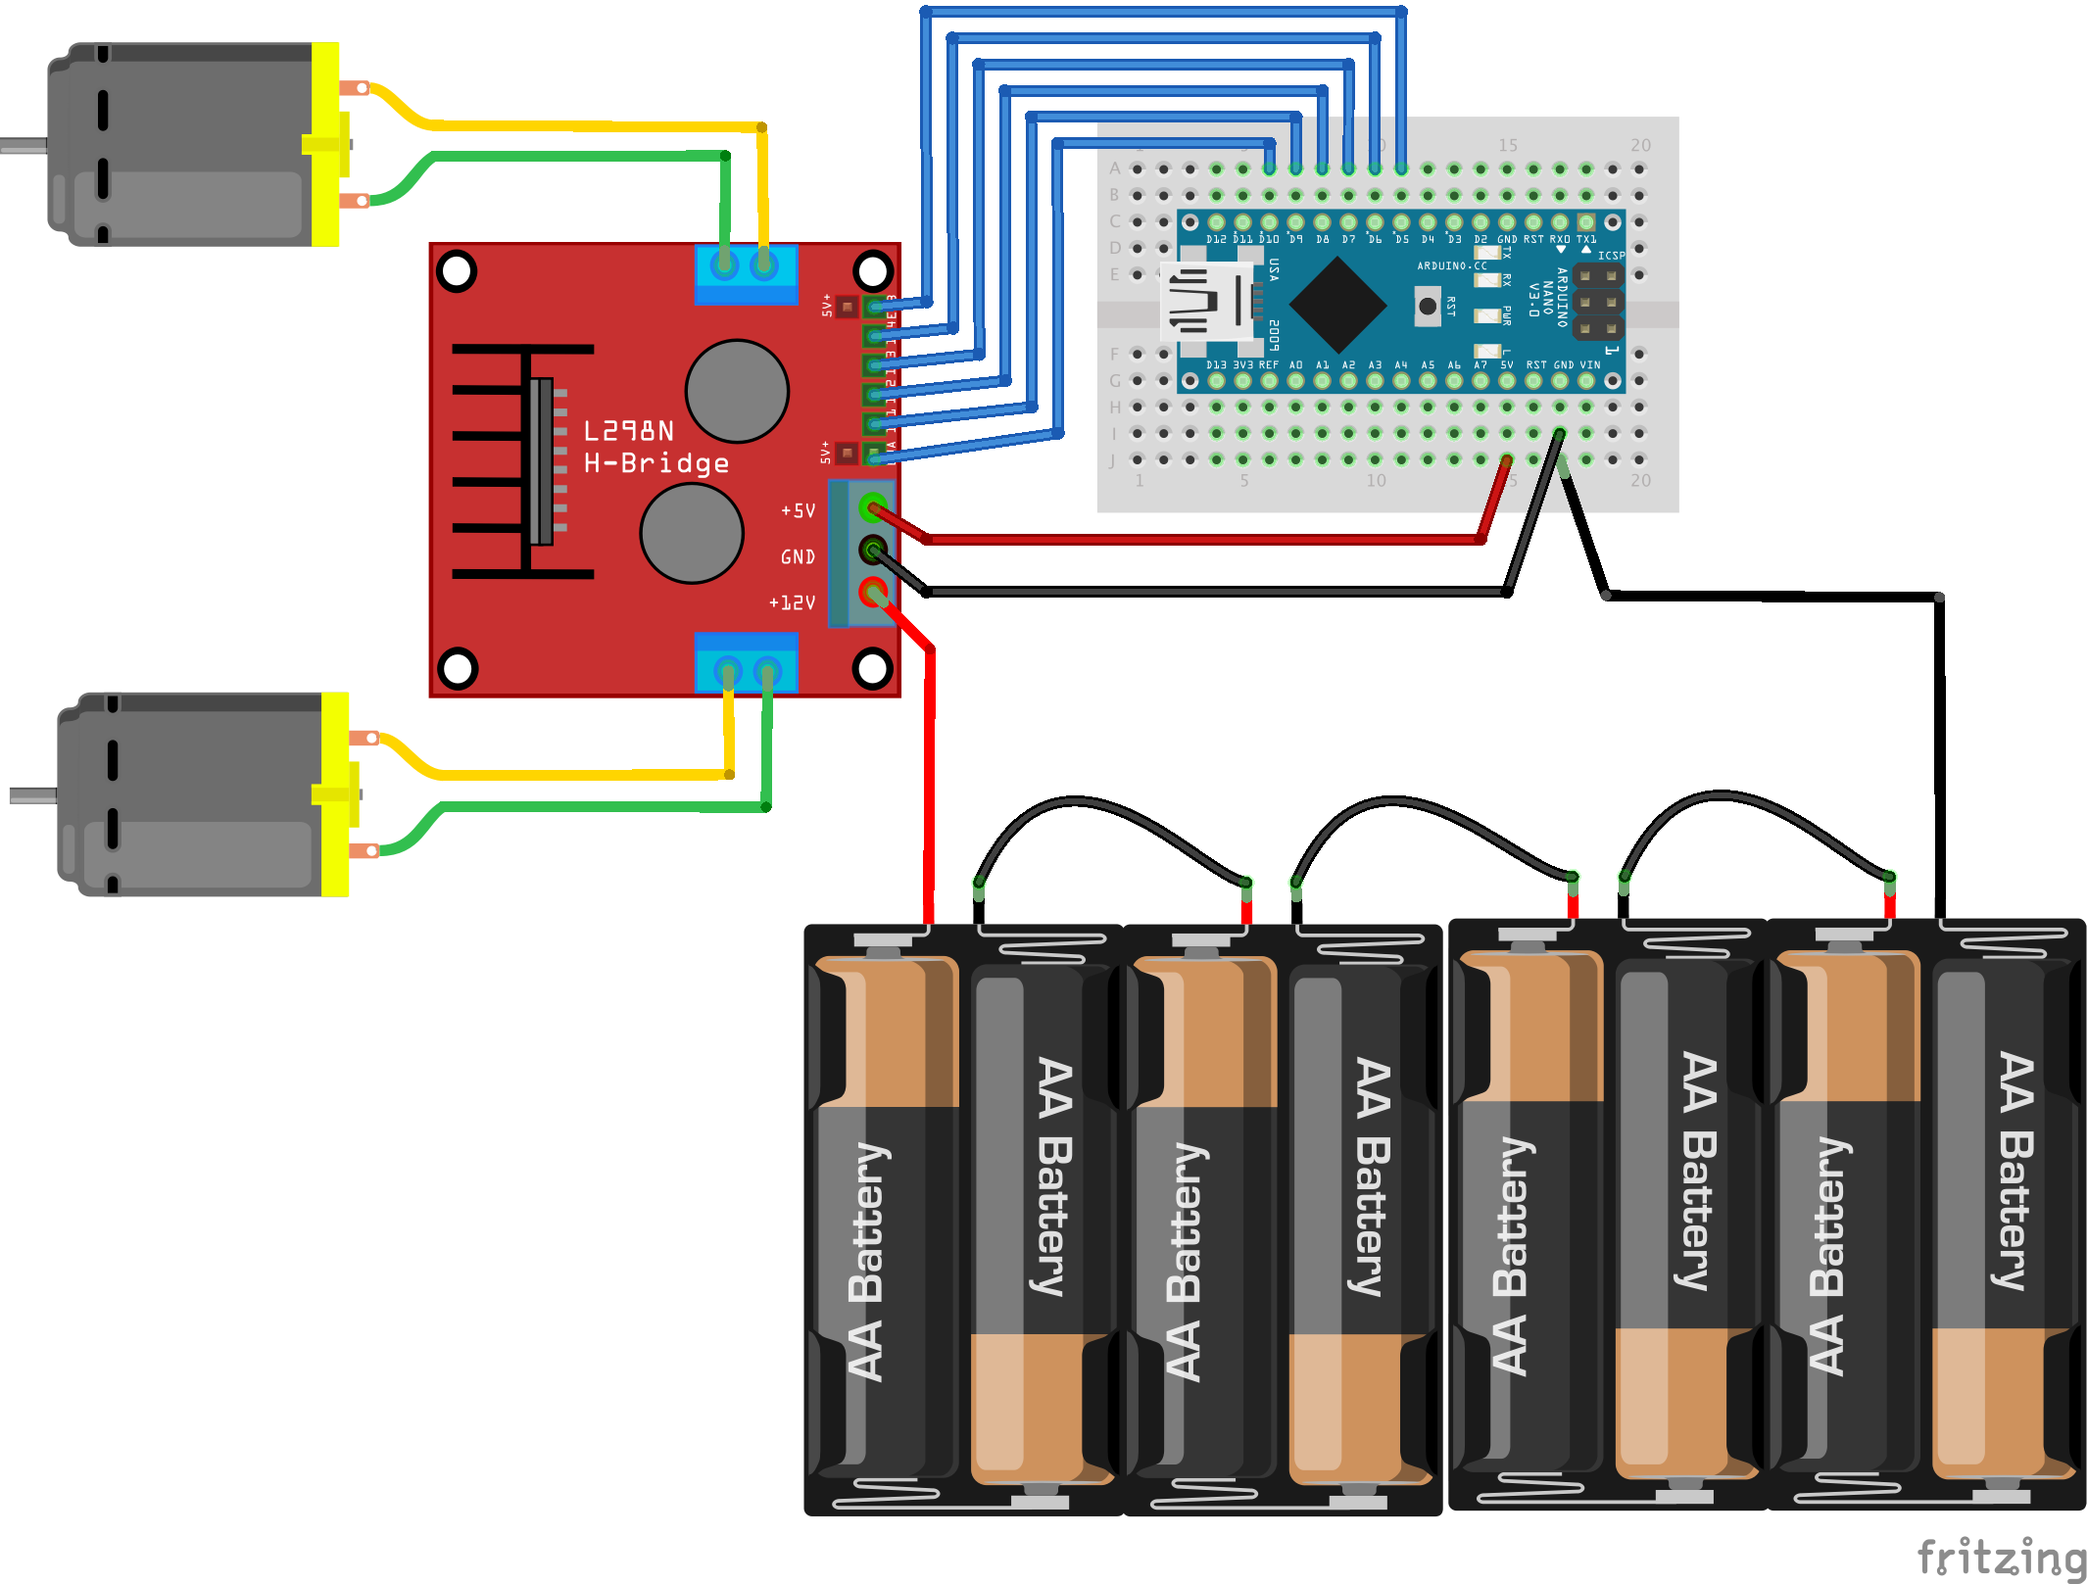
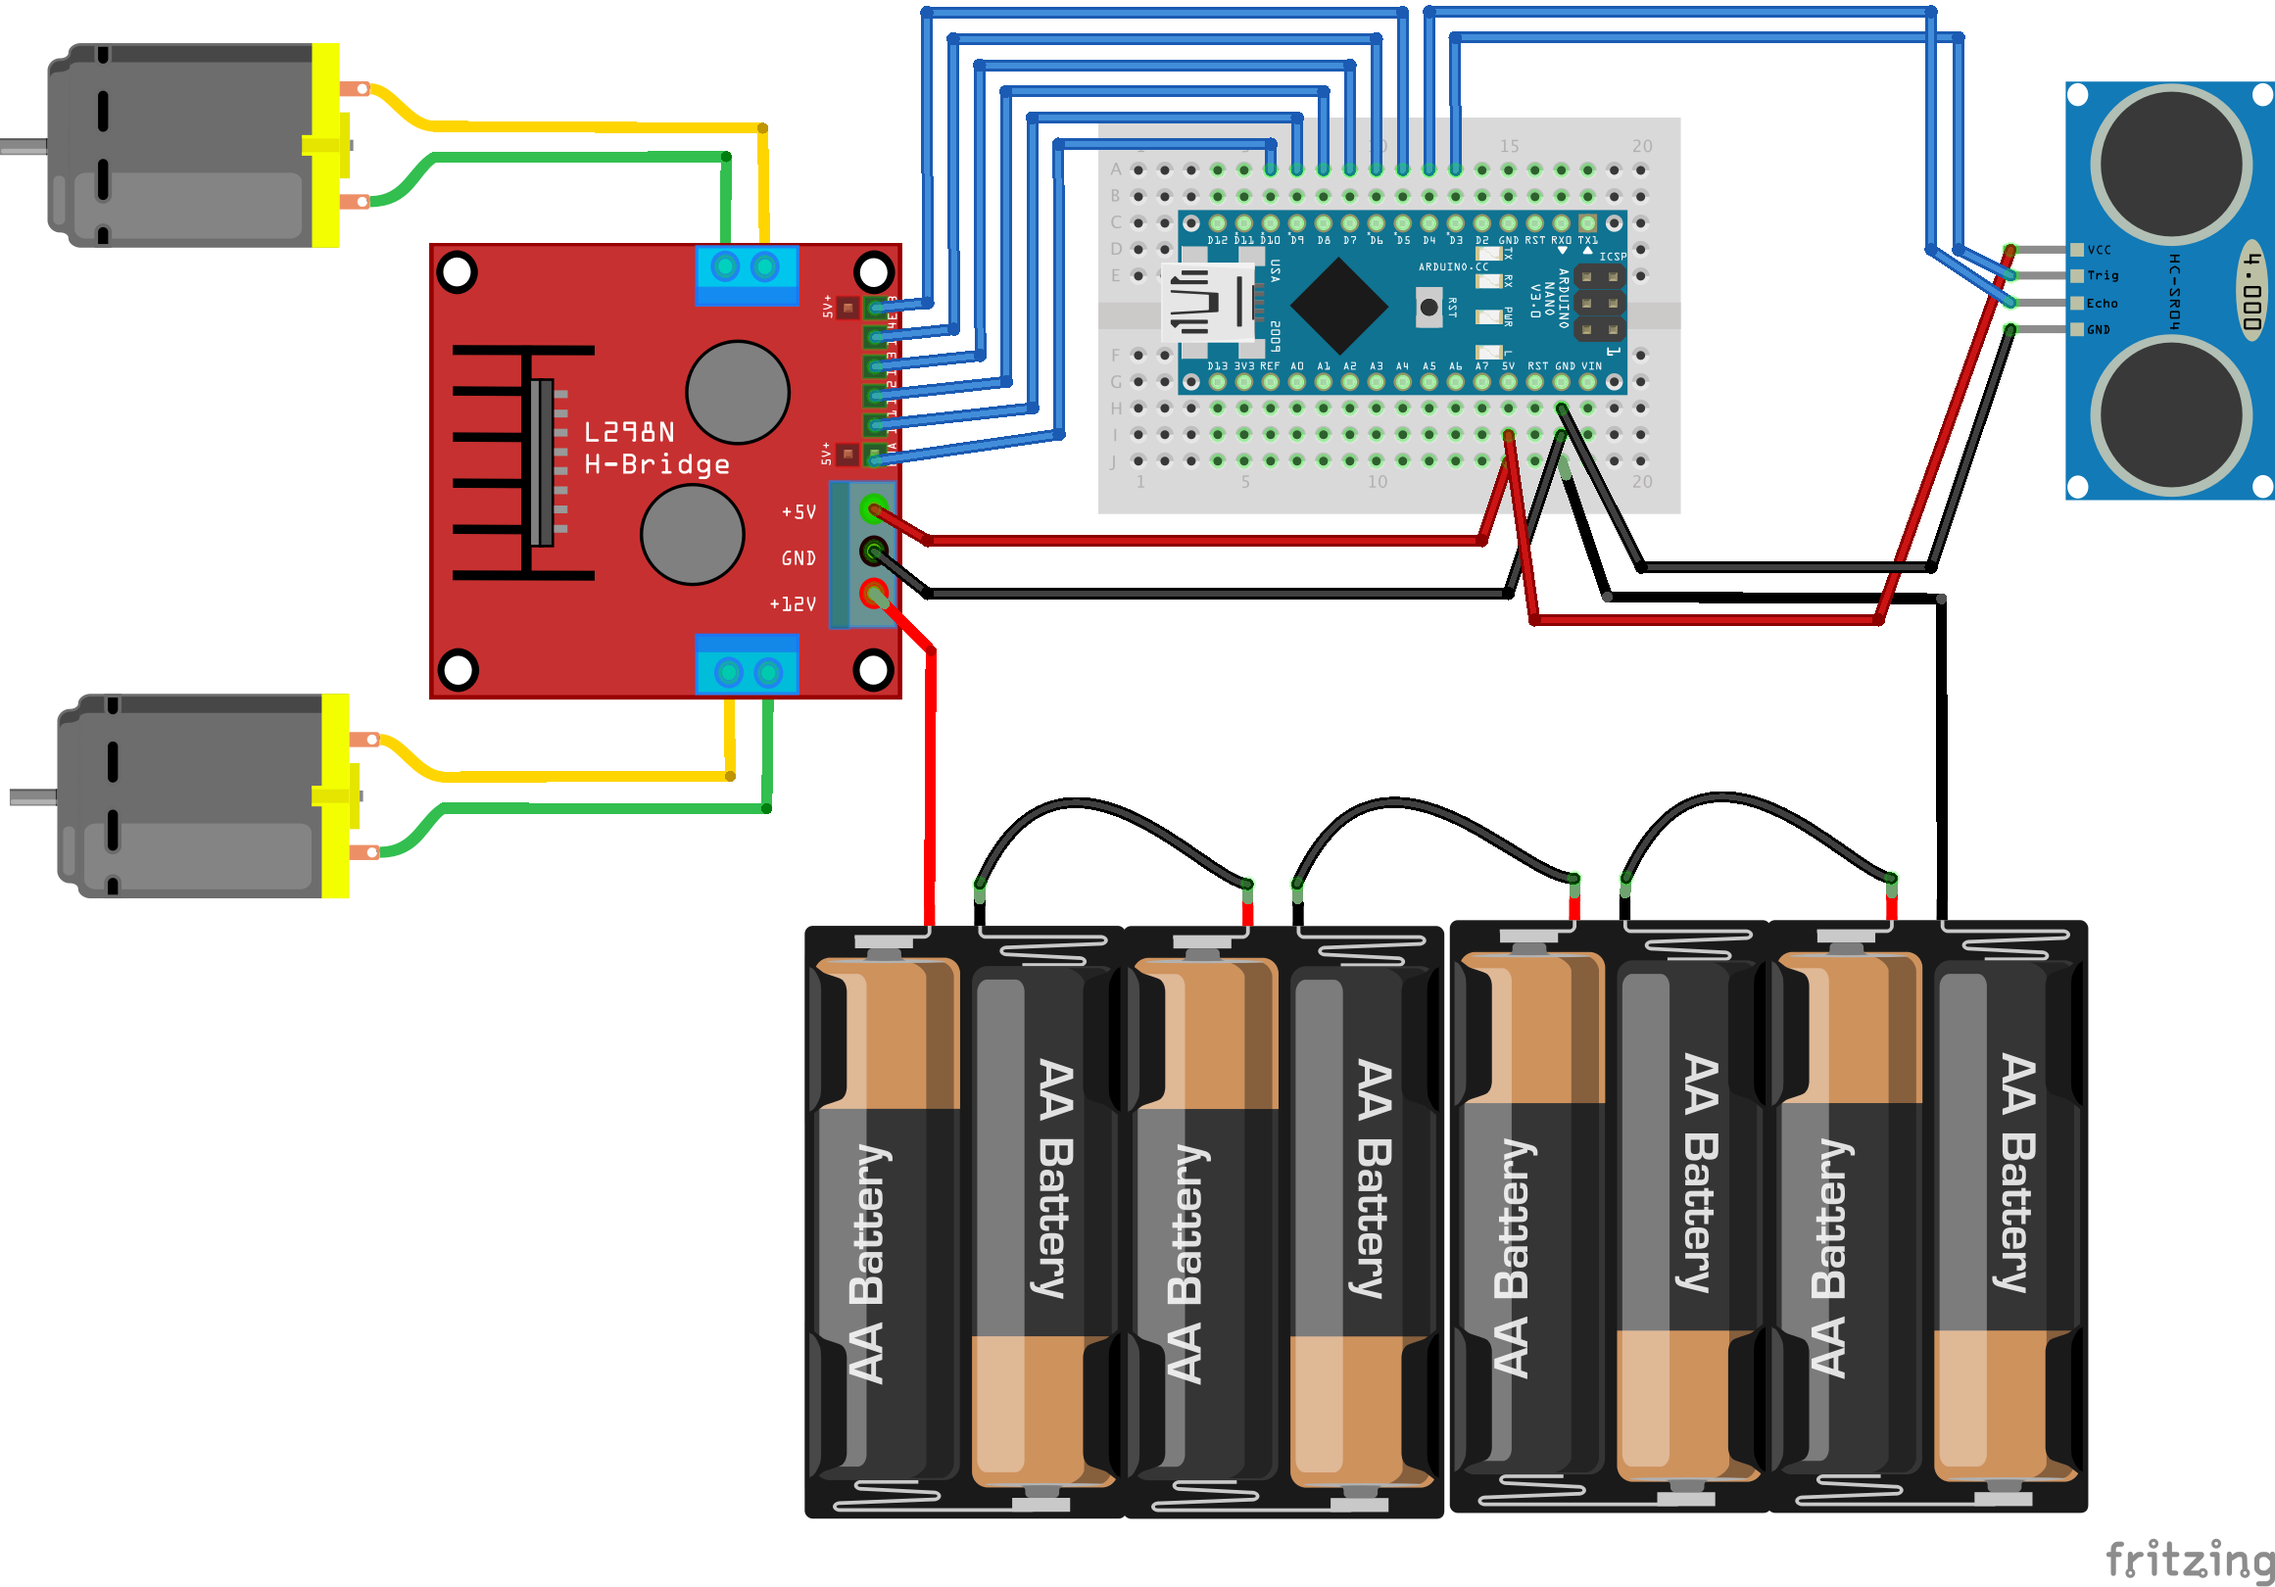
feat: add HC-SR04 to diagram and code

diff --git a/index.md b/index.md
@@ -94,8 +94,8 @@ void loop() {
 ```cpp
 #include <hcsr04.h>
 
-#define TRIG 12
-#define ECHO 13
+#define TRIG 3
+#define ECHO 4
 
 // TRIG, ECHO, MIN_RANGE, MAX_RANGE
 HCSR04 sensorA(TRIG, ECHO, 20, 4000);
